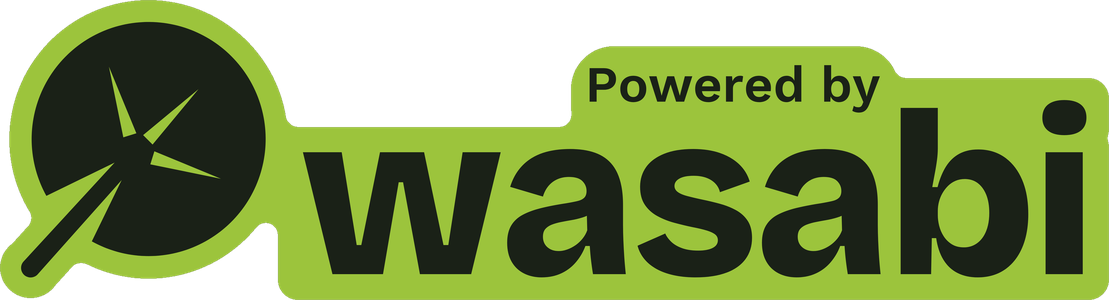
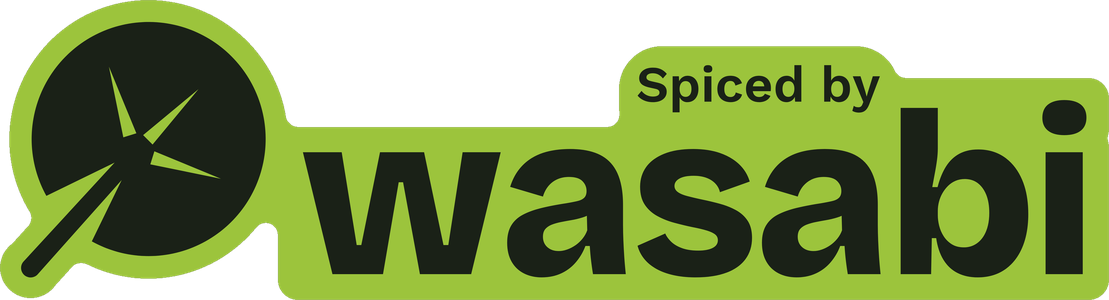
Welcome badge: "Spiced by Wasabi"
Claude-Session: https://claude.ai/code/session_01JPPWy6yUSPjDnAeVwCrzYx

Changed region(s): [[0.4905, 0.15, 0.6745, 0.45]]

diff --git a/styles.css b/styles.css
@@ -315,7 +315,7 @@ button.mitem:hover,a.mitem:hover,button.mitem:focus-visible,a.mitem:focus-visibl
 .hello-name{display:block;max-width:80vw;background:var(--accent);color:var(--accent-ink);font-family:var(--display);text-transform:var(--dcase,uppercase);
   font-weight:700;font-size:40px;line-height:1.05;text-align:center;padding:22px 28px;border-radius:24px;border:8px solid #fff;box-shadow:0 10px 24px rgba(0,0,0,.25)}
 .hello-tap{margin-top:30px;margin-bottom:auto;color:#f6f4ee;font-size:16px;font-weight:600;letter-spacing:.01em}
-/* "Powered by Wasabi": a wasabi-green die-cut badge (img/brand/powered-by-wasabi.png): the edge follows the leaf and stem, then the word: low over "wasa", a rounded notch for "Powered by", level with the tall b and i. */
+/* "Spiced by Wasabi" badge (img/brand/powered-by-wasabi.png): wasabi-green die-cut; the edge follows the leaf and stem, then the word: low over "wasa", a rounded notch for "Spiced by", level with the tall b and i. */
 .hello-by{display:block;animation:hello-pop .35s .12s cubic-bezier(.2,.9,.3,1.25) both}
 .hello-wasabi{display:block;height:72px;width:auto;filter:drop-shadow(0 4px 10px rgba(0,0,0,.28))}
 body.hello-on{overflow:hidden}

diff --git a/app.js b/app.js
@@ -548,7 +548,7 @@ function welcomeSplash() {
   el.className = "hello"; el.setAttribute("role", "dialog"); el.setAttribute("aria-modal", "true"); el.setAttribute("aria-label", `Welcome to ${rname()}`);
   el.innerHTML = `<button class="hello-go" type="button"><span class="hello-stick" id="hellostick">${welcomeSticker()}</span>
     <span class="hello-tap">Tap to start ordering</span>
-    <span class="hello-by"><img class="hello-wasabi" src="img/brand/powered-by-wasabi.png" alt="Powered by Wasabi"></span></button>`;
+    <span class="hello-by"><img class="hello-wasabi" src="img/brand/powered-by-wasabi.png" alt="Spiced by Wasabi"></span></button>`;
   document.body.appendChild(el); document.body.classList.add("hello-on"); hydratePhotos();
   const btn = el.querySelector("button");
   // The restaurant's look can arrive a moment later: swap the sticker if the logo changed.
